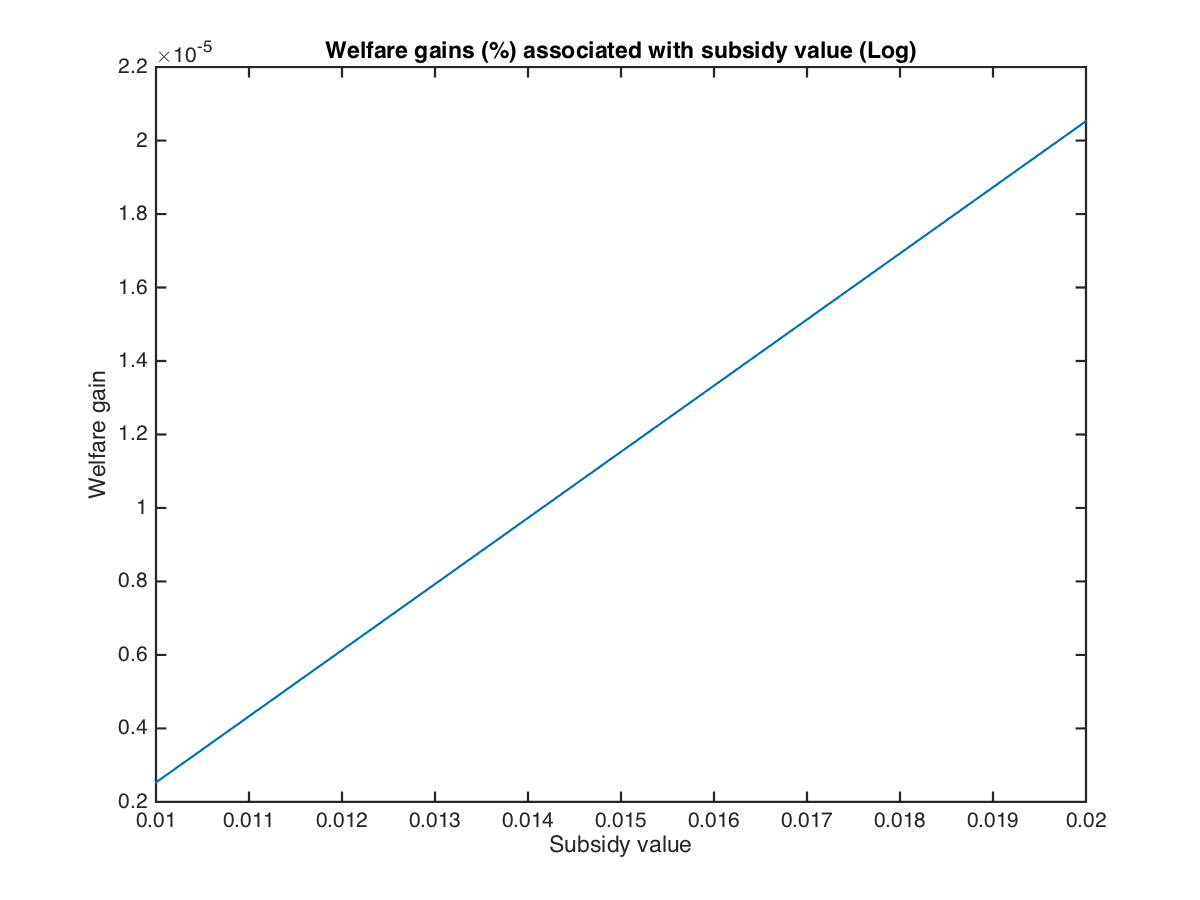
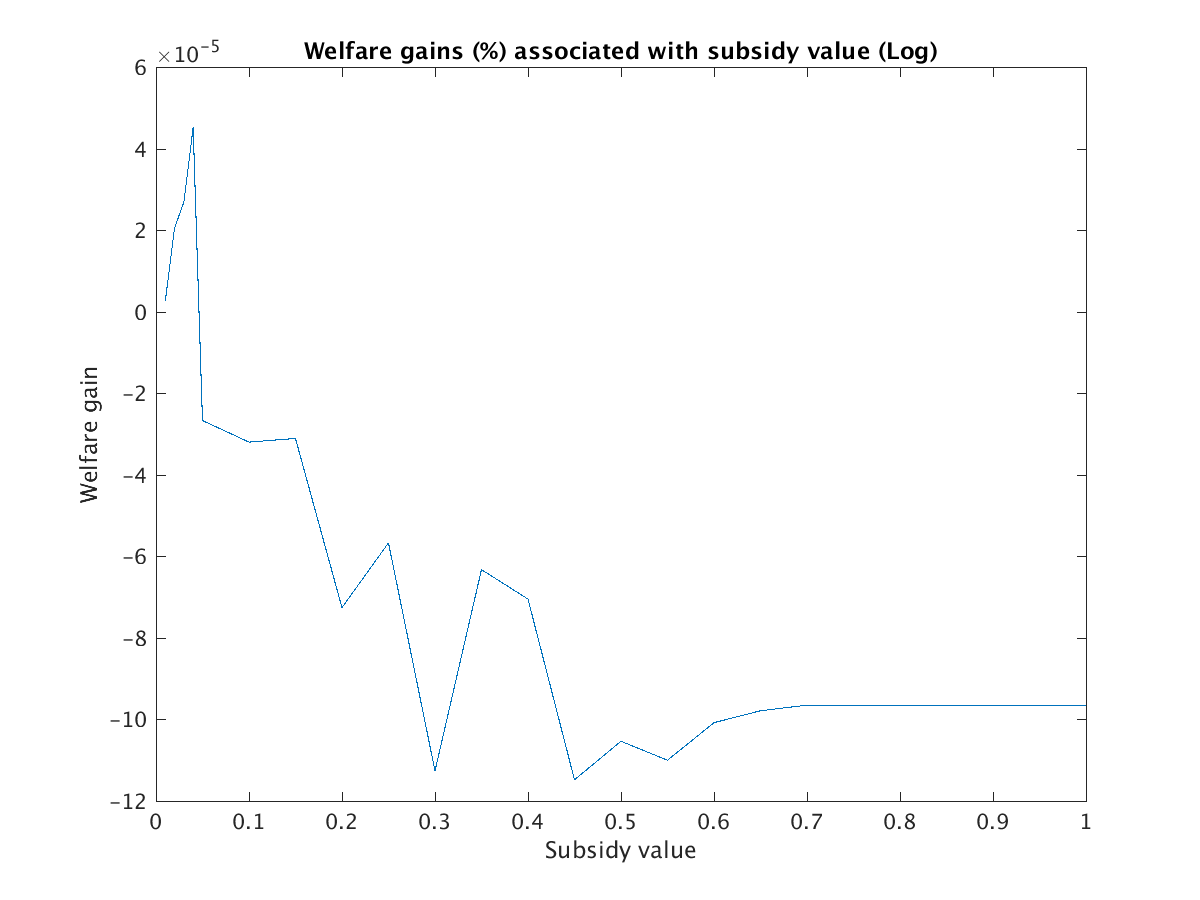
ran simulations with higher costs

diff --git a/simulations/welfare_counterfactuals/optimal_subsidy_zeta.m b/simulations/welfare_counterfactuals/optimal_subsidy_zeta.m
@@ -2,13 +2,13 @@ clear
 close all
 clc
 
-cd('/Users/alexandresollaci/Documents/UChicago/RA/Combinatorial growth/combinatorial_growth/simulations/welfare_counterfactuals/')
+%cd('/Users/alexandresollaci/Documents/UChicago/RA/Combinatorial growth/combinatorial_growth/simulations/welfare_counterfactuals/')
 
 etaH = 0.15; % NT step size
 etaM = 0.06; % NC step size
 etaL = 0; % Refinement step size
 ttau = 1000; % shape parameter for ideas distribution
-llambda = 1; % alpha (cost) has weibull distribution with scale parameter lambda ...
+llambda = 2; % alpha (cost) has weibull distribution with scale parameter lambda ...
 kkappa = 2; % and shape parameter kappa
 xxi = 200;   % 1/xi is the fraction of feasible combinations
 zeta = 0.012; % probability technology line shuts down
@@ -24,19 +24,17 @@ nroffirms = round(nu*nrofinv);
 g1 = 0.066; % initial growth rate of patent numbers
 g2 = 0.02; % final growth rate of patents
 
-seed = 10;
-
 % define parameters for iterations
 Tmax = 230; % total number of periods
 T_subs = 180; % start subsidy period in 2016
 seed = 10;
 params = v2struct(etaH, etaM, etaL, ttau, llambda, kkappa, xxi, zeta, ggamma, epsilon, rr, nu, nrofinv, g1, g2);
 
-% Run simulation with no subsidy
+%% Run simulation with no subsidy
 subsidy_plain = [0,0];
 result_plain = simulate_path_zeta(Tmax, T_subs, params, subsidy_plain, seed);
 
-%% store simulation results
+% store simulation results
 %Mmat_plain = result_plain.Mmat;
 %summat_plain = result_plain.summat;
 % GDP_plain = result_plain.GDP;
@@ -95,15 +93,15 @@ plot(subsidy_vals, WChangeNT)
 title('Welfare gains (%) associated with subsidy value (CRRA)')
 xlabel('Subsidy value')
 ylabel('Welfare gain')
-saveas(gcf, 'tex_files/figures/welfare_pp.png')
+saveas(gcf, 'tex_files/figures/welfare_pp_cost01.png')
 
-welfare_gains_pp = figure(1);
+welfare_log_gains_pp = figure(2);
 plot(subsidy_vals, WlogChangeNT)
 %legend('New technologies', 'New combination', 'location', 'Northeast')
 title('Welfare gains (%) associated with subsidy value (Log)')
 xlabel('Subsidy value')
 ylabel('Welfare gain')
-saveas(gcf, 'tex_files/figures/welfare_log_pp.png')
+saveas(gcf, 'tex_files/figures/welfare_log_pp_cost01.png')
 
 
 

diff --git a/simulations/welfare_counterfactuals/simulate_path_zeta.m b/simulations/welfare_counterfactuals/simulate_path_zeta.m
@@ -48,7 +48,6 @@ function return_vars = simulate_path_zeta(Tmax, T_subs, params, subsidy_vec, see
 
     summat = zeros(Tmax + 1,4); % matrix to keep track of fractions of each patent type
     summat(1,:) = [year, 1, 0, 0]; %[year, new tech, new comb, reuse]
-    seed = 1702;
 
     %%%%%%%%%%%%% DEFINE STATES
     %3 states: 1-new tech 2-recomb 3-reuse
@@ -95,7 +94,7 @@ function return_vars = simulate_path_zeta(Tmax, T_subs, params, subsidy_vec, see
             % Draw new ideas and new costs
             % [mstar,aalpha] = modeldraws(j, ttau, llambda, kkappa); % not using seed
             y = rand(2,1); 
-            mstar = ttau*log( (1 + y(1)*exp(1.0*j/ttau)) / (1-y(1)) );                     % Inverse of G
+            mstar = ttau*log( (1 + y(1)*exp(1.01*j/ttau)) / (1-y(1)) );                     % Inverse of G
             aalpha = llambda*(- log(1 - y(2)) )^(1/kkappa) ;                           % Inverse of weibull CDF
             aalpha1 = aalpha*(1 - subsidy(1)); % new tech cost
             aalpha2 = aalpha*(1 - subsidy(2)); % new comb cost
